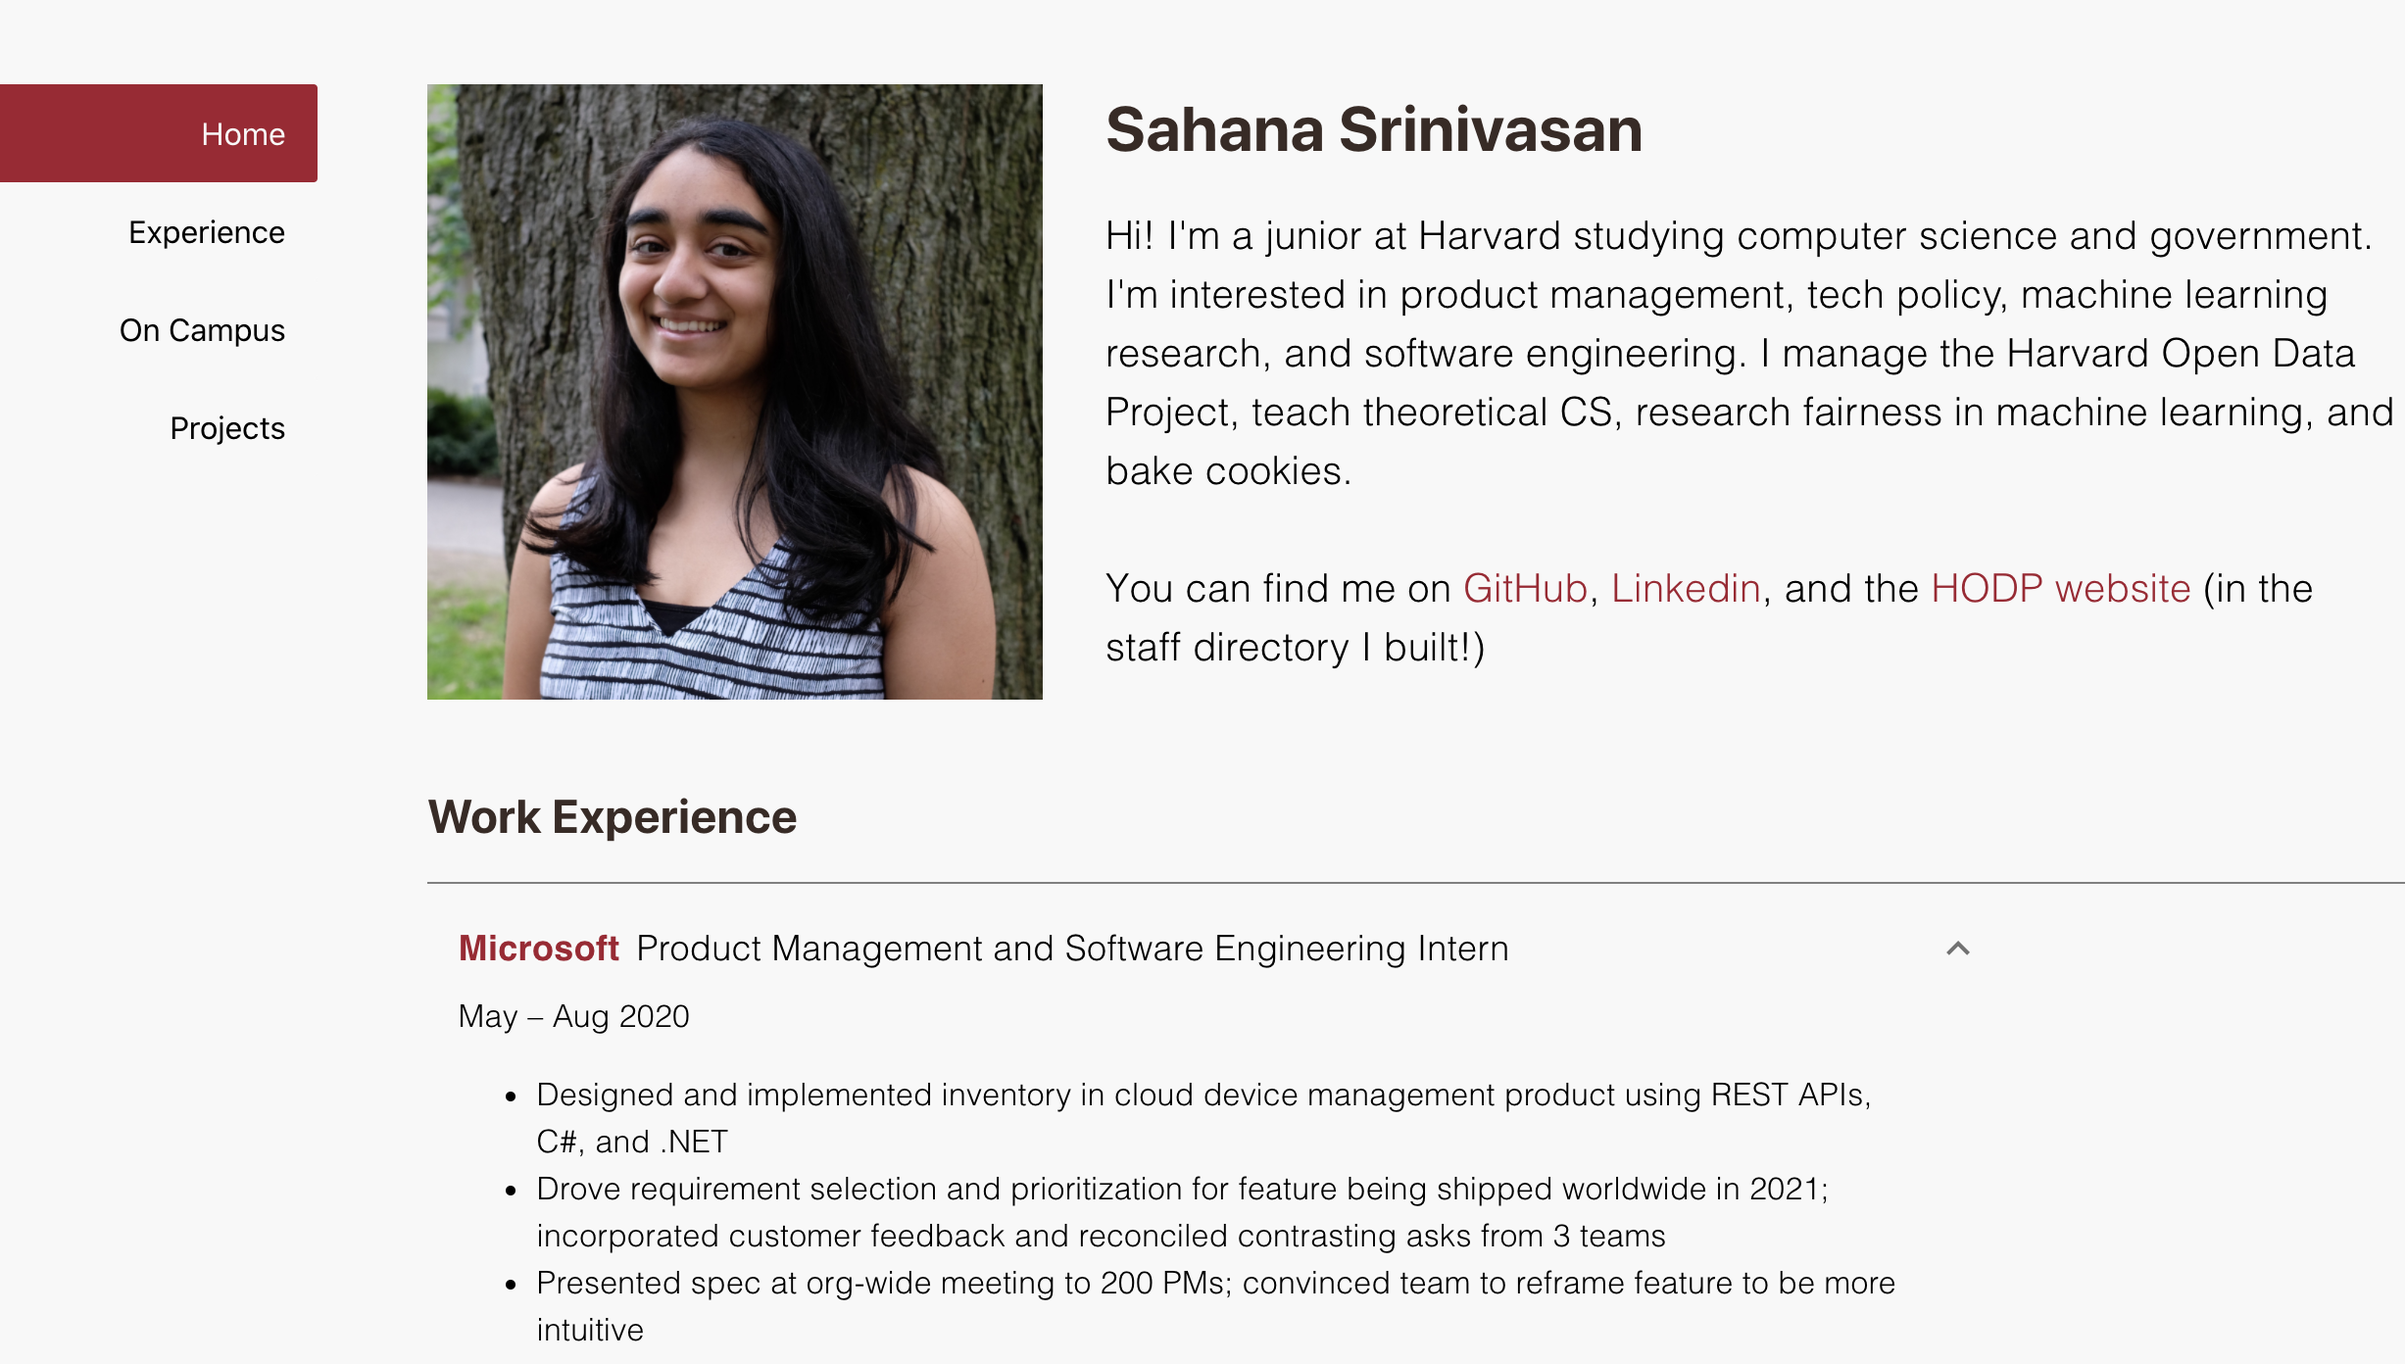
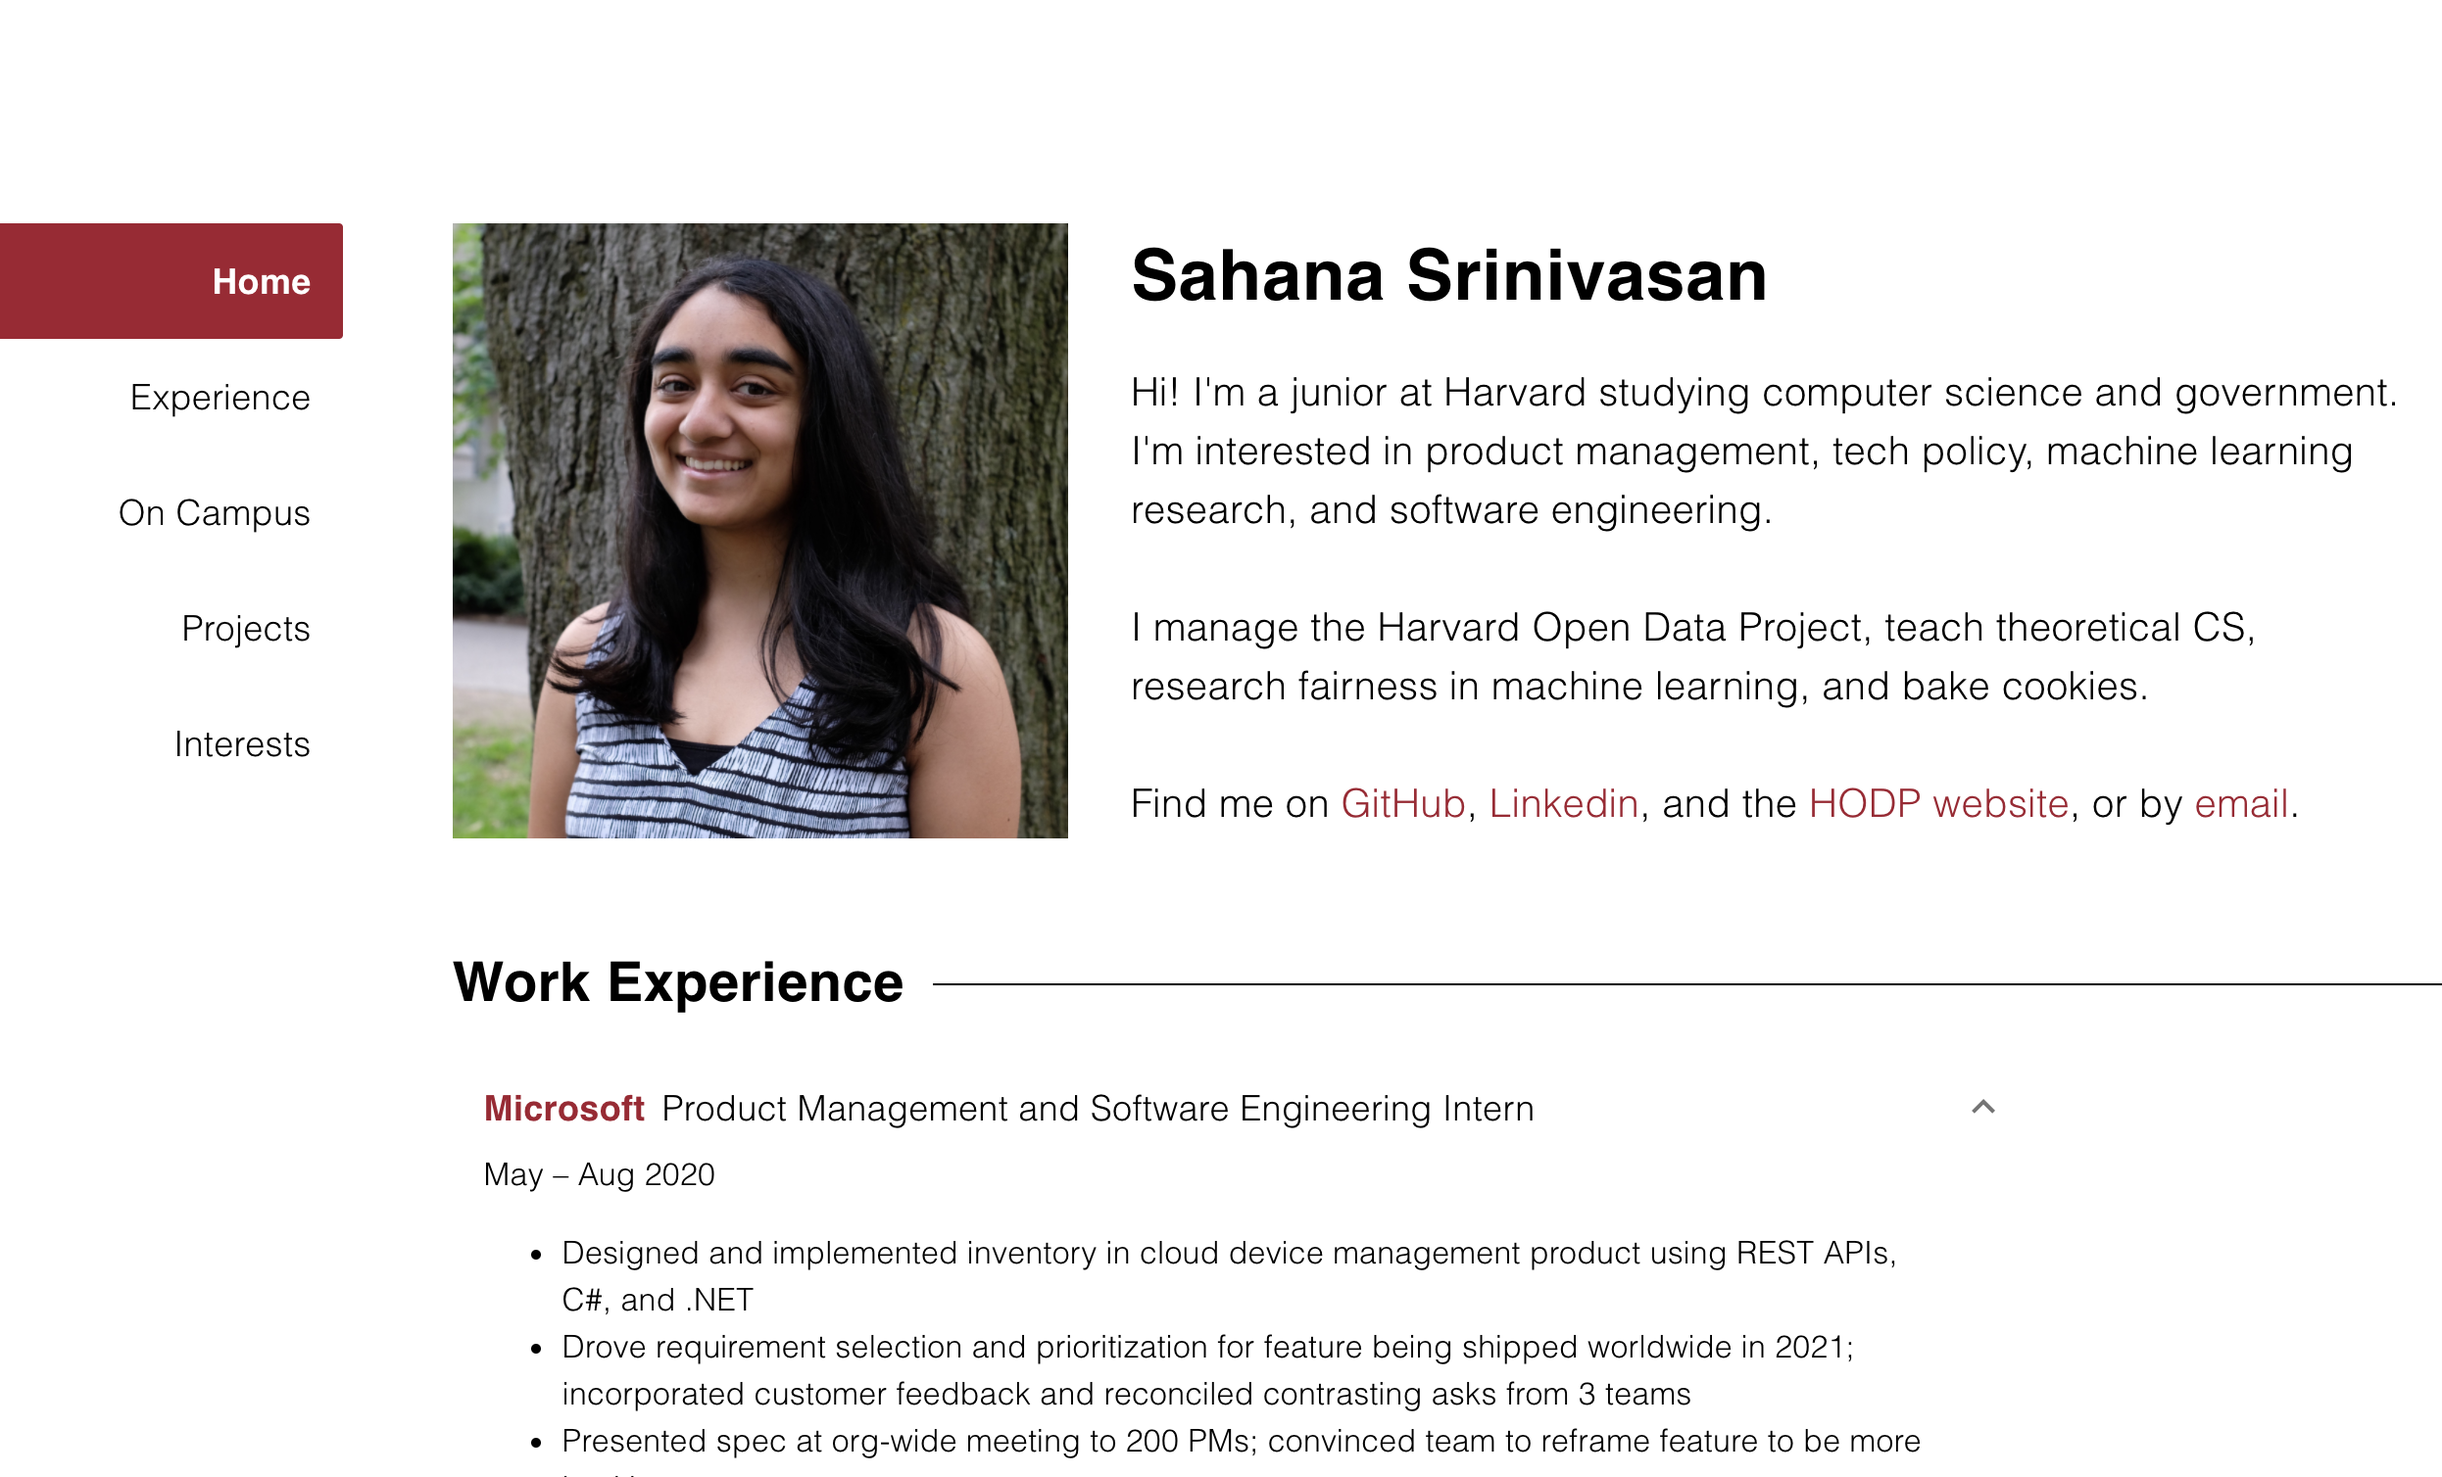
Fixed project description styling and interest format

diff --git a/src/Projects.js b/src/Projects.js
@@ -74,11 +74,16 @@ export default function Projects() {
               Visualizes effects of voting methods on election outomes and interactively explains types of voting methods. Presented to 10 political strategists and activists. Site used for educational purposes by reform groups in 2020 election.  
             </Typography>
             <Typography className={classes.tech}>
-             React, D3.
+             <button className="project-tech">
+               React
+             </button>&nbsp;
+             <button className="project-tech">
+               D3
+             </button>
             </Typography>
             <Typography className={classes.links}>
-              <a href="https://the-voting-methods.web.app">Live site. </a>
-              <a href="https://github.com/mwjkwan/voting-methods">Source code.</a>
+              <a className="project-link" href="https://the-voting-methods.web.app">Live site</a>&nbsp;
+              <a className="project-link" href="https://github.com/mwjkwan/voting-methods">Source code</a>
             </Typography>
           </Text>
         </Card>
@@ -100,11 +105,16 @@ export default function Projects() {
                 Creates custom COVID-19 data visualizations in D3 from user-inputted mathematical expressions. Produces time graphs and maps, parses terms and math syntax natively. Voted Top 3 in category and org in Microsoft’s 2020 Global Hackathon.
             </Typography>
             <Typography className={classes.tech}>
-              Javascript, D3. 
+              <button className="project-tech">
+                Javascript
+              </button>&nbsp;
+              <button className="project-tech">
+                D3
+              </button>
             </Typography>
             <Typography className={classes.links}>
-              <a href="https://github.com/mattweidman/covid-mapper">Source code. </a>
-              Live site in progress.
+              <a className="project-link" href="https://github.com/mattweidman/covid-mapper">Source code</a>&nbsp;
+              <a className="project-link">Live site in progress</a>
             </Typography>
           </Text>
         </Card>
@@ -123,14 +133,22 @@ export default function Projects() {
               </Typography>
             </div>
             <Typography className={classes.date}>
-              Natively hosts articles, projects, and staff directory. Helped scope project features, evaluated headless CMSes, and implemented staff directory, profiles, and bios from scratch.
+              Site that natively hosts projects and a staff directory. Helped scope project features; evaluated headless CMSes; and implemented staff directory, profiles, and bios from scratch.
             </Typography>
             <Typography className={classes.tech}>
-                React, GraphQL, Sanity CMS.
+              <button className="project-tech">
+               React
+              </button>&nbsp;
+              <button className="project-tech">
+               GraphQL
+              </button>&nbsp;
+              <button className="project-tech">
+               Sanity CMS
+              </button>
             </Typography>
             <Typography className={classes.links}>
-              <a href="https://hodp.org/people">Live site. </a>
-              <a href="https://github.com/HarvardOpenData/HarvardOpenData.github.io">Source code.</a>
+              <a className="project-link" href="https://hodp.org/people">Live site</a>&nbsp;
+              <a className="project-link" href="https://github.com/HarvardOpenData/HarvardOpenData.github.io">Source code</a>
             </Typography>
           </Text>
         </Card>
@@ -152,11 +170,22 @@ export default function Projects() {
               Used deep learning to develop novel pipeline for segmeneting lateral ventricles in 3D brain MRIs and potentially melanomatous skin lesions in lay images. Wrote two 20-page papers. 2nd place in regional science fair. Siemens Competition semifinalist (top 300 in nation).
             </Typography>
             <Typography className={classes.tech}>
-              Python, Keras, scikit-image, scikit-learn.
-            </Typography>
+                <button className="project-tech">
+                Python
+                </button>&nbsp;
+                <button className="project-tech">
+                Keras
+                </button>&nbsp;
+                <button className="project-tech">
+                Scikit-learn
+                </button>&nbsp;
+                <button className="project-tech">
+                Scikit-image
+                </button>
+            </Typography> 
             <Typography className={classes.links}>
-              <a href="https://github.com/aarun/mel">Skin lesion source code. </a>
-              <a href="https://github.com/Sahana-Srinivasan/mri-ventricle-segmentation">MRI source code.</a>
+              <a className="project-link" href="https://github.com/aarun/mel">Skin lesion source code</a>&nbsp;
+              <a className="project-link" href="https://github.com/Sahana-Srinivasan/mri-ventricle-segmentation">MRI source code</a>
             </Typography>
           </Text>
         </Card>
@@ -182,11 +211,19 @@ export default function Projects() {
               <a id="social-link" href="https://www.thecrimson.com/article/2020/7/14/hodp-fall-semester-survey/"> Crimson </a> and received 10k+ views.
             </Typography>
             <Typography className={classes.tech}>
-              R, ggplot, Python.
+              <button className="project-tech">
+               R
+              </button>&nbsp;
+              <button className="project-tech">
+               Python
+              </button>&nbsp;
+              <button className="project-tech">
+               ggplot
+              </button>
             </Typography>
             <Typography className={classes.links}>
-              <a href="https://www.hodp.org/people/sahana-srinivasan/">Articles. </a>
-              <a href="https://github.com/TheKeveloper/HODP-Fall-2020-Analysis">Analysis source code.</a>
+              <a className="project-link" href="https://www.hodp.org/people/sahana-srinivasan/">Articles</a>&nbsp;
+              <a className="project-link" href="https://github.com/TheKeveloper/HODP-Fall-2020-Analysis">Analysis source code</a>
             </Typography>
           </Text>
         </Card>
@@ -208,7 +245,7 @@ export default function Projects() {
               Built from scratch in React. 
             </Typography>
             <Typography className={classes.links}>
-              <a href="https://github.com/Sahana-Srinivasan/Sahana-Srinivasan.github.io">Source code.</a>
+              <a className="project-link" href="https://github.com/Sahana-Srinivasan/Sahana-Srinivasan.github.io">Source code</a>
             </Typography>
           </Text>
         </Card>

diff --git a/src/Profile.js b/src/Profile.js
@@ -118,10 +118,11 @@ function Profile(props) {
                   I manage the Harvard Open Data Project, teach theoretical CS, research fairness in machine learning, and bake cookies. 
                   <br></br>
                   <br></br>
-                  You can find me on&nbsp;
+                  Find me on&nbsp;
                     <a id="social-link" href="https://www.github.com/sahana-srinivasan">GitHub</a>,&nbsp;
                     <a id="social-link" href="https://www.linkedin.com/in/sahana-srinivasan-009">Linkedin</a>, and the&nbsp;
-                    <a id="social-link" href="https://hodp.org/people/sahana-srinivasan">HODP website</a>.
+                    <a id="social-link" href="https://hodp.org/people/sahana-srinivasan">HODP website</a>, or by&nbsp;
+                    <a id="social-link" href="mailto:sahanasrinivasan@college.harvard.edu">email</a>.
                   </Typography>
                   <br></br>
                 </div>
@@ -158,7 +159,7 @@ function Profile(props) {
             <br></br>
               <div className="section-title">
                 <Typography className={classes.section}>
-                  Projects
+                  Selected Projects
                 </Typography>
               </div>
               <br></br>
@@ -174,12 +175,10 @@ function Profile(props) {
               </div>
               <br></br>
               <Typography className={classes.position}>
-                Here are some other things I enjoy! Feel free to reach out over them, particularly if you have a favorite cookie recipe.
+                Here are some other things I enjoy!
                 <ul>
-                  <li>Baking chocolate chip cookies</li>
+                  <li>Baking chocolate chip cookies (I spent summer 2020 finding my favorite recipe)</li>
                   <li>Playing online pictionary, codenames, Set, and Hanabi</li>
-                  <li>Writing short fiction</li>
-                  <li>Open data and journalism</li>
                   <li>Puzzles</li> 
                   <li>Stand-up comedy</li>
                   <li>The NYT mini crossword</li>

diff --git a/src/Profile.css b/src/Profile.css
@@ -85,7 +85,7 @@ a {
 .section-title:after {
   display: block;
   float: right;
-  margin-left: 15px;
+  margin-left: 25px;
   margin-top: 1.4em; /* half the line-height */
   border-top: 1px solid black;
   flex: 1;
@@ -94,6 +94,25 @@ a {
 
 .divider {
   display: inline-block;
+}
+
+.project-link {
+  text-decoration: none;
+  font-size: 12px;
+  background-color: #A51C30;
+  color: white;
+  border-radius: 3px;
+  padding: 2px 6px 2px 6px;
+}
+
+.project-tech {
+  text-decoration: none;
+  font-size: 12px;
+  background-color: #A9A9A9;
+  color: white;
+  border-radius: 3px;
+  padding: 2px 6px 2px 6px;
+  border: 0px;
 }
 
 @media screen and (max-width: 1023px) {
